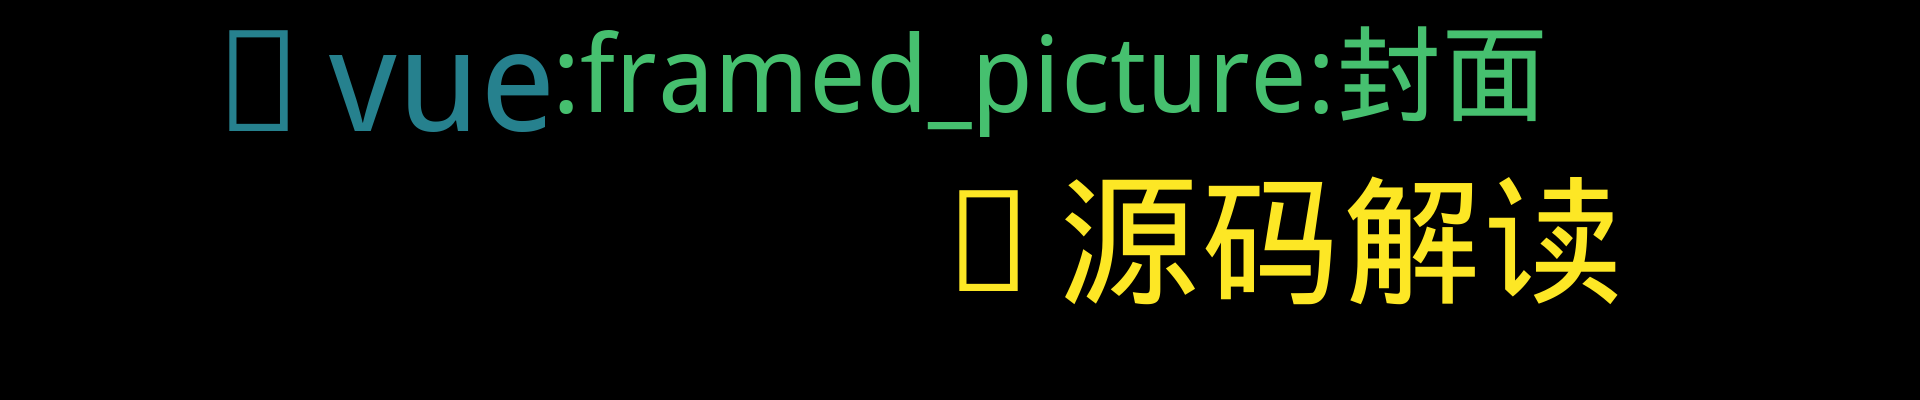
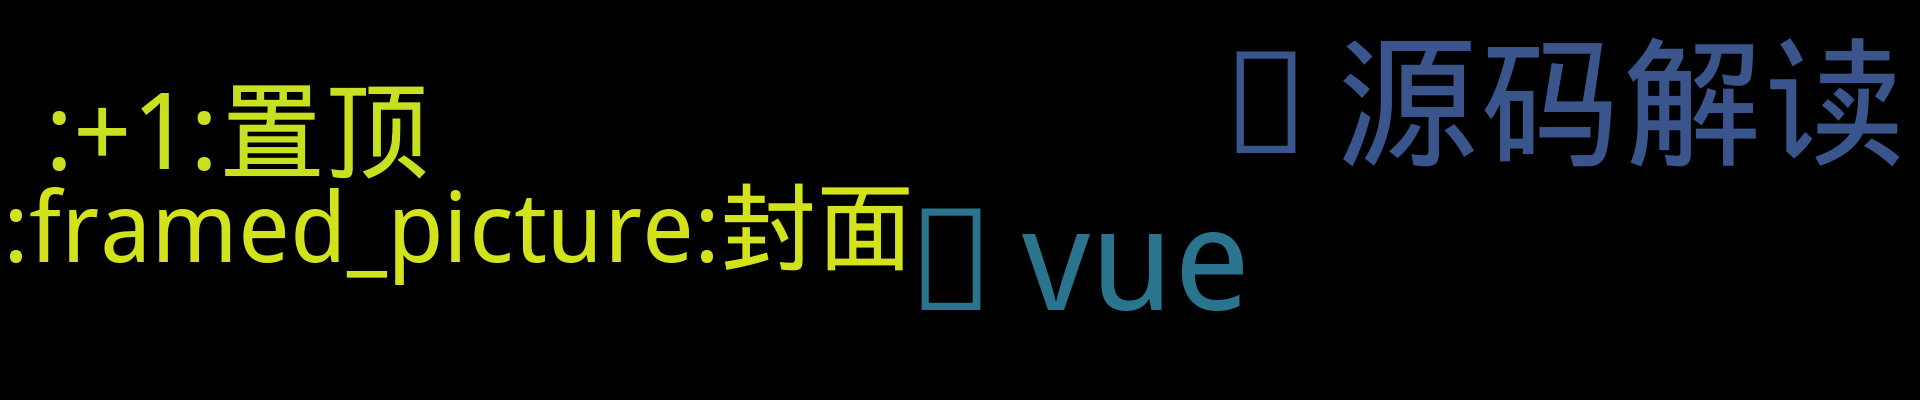
Update from Github Action

diff --git a/README.md b/README.md
@@ -3,7 +3,7 @@
 <p align='center'>
     <img src="https://badgen.net/badge/labels/4"/>
     <img src="https://badgen.net/github/issues/7kyun/ghiblog"/>
-    <img src="https://badgen.net/badge/last-commit/2022-05-10 02:33:32"/>
+    <img src="https://badgen.net/badge/last-commit/2022-05-10 02:35:55"/>
     <img src="https://badgen.net/github/forks/7kyun/ghiblog"/>
     <img src="https://badgen.net/github/stars/7kyun/ghiblog"/>
     <img src="https://badgen.net/github/watchers/7kyun/ghiblog"/>
@@ -31,6 +31,7 @@
 
     
 ## 置顶 :thumbsup: 
+- [Vue 数据绑定原理（一）](https://github.com/7kyun/ghiblog/issues/3)  <sup>0 :speech_balloon:</sup>  	 
 ## 最新 :new: 
 
 #### [Vue 数据绑定原理（二）](https://github.com/7kyun/ghiblog/issues/4) <sup>0 :speech_balloon:</sup> 	 2022-05-09 09:29:27
@@ -49,7 +50,7 @@
 
 #### [Vue 数据绑定原理（一）](https://github.com/7kyun/ghiblog/issues/3) <sup>0 :speech_balloon:</sup> 	 2022-05-09 08:10:59
 
-:label: : [𝐕vue](https://github.com/7kyun/ghiblog/labels/%F0%9D%90%95vue), [➡源码解读](https://github.com/7kyun/ghiblog/labels/%E2%9E%A1%EF%B8%8F%E6%BA%90%E7%A0%81%E8%A7%A3%E8%AF%BB)
+:label: : [:+1:置顶](https://github.com/7kyun/ghiblog/labels/%3A%2B1%3A%E7%BD%AE%E9%A1%B6), [𝐕vue](https://github.com/7kyun/ghiblog/labels/%F0%9D%90%95vue), [➡源码解读](https://github.com/7kyun/ghiblog/labels/%E2%9E%A1%EF%B8%8F%E6%BA%90%E7%A0%81%E8%A7%A3%E8%AF%BB)
 
 ### initData
 这段代码主要是初始化data中的数据，将数据进行Observer，监听数据的变化，其他的监视原理一致，这里以data为例。[源码](https://github.com/vuejs/vue/blob/2.6/src/core/instance/state.js#L112)
@@ -81,8 +82,9 @@
 
 
 <details>
-<summary>:+1:置顶	<sup>0:newspaper:</sup></summary>
+<summary>:+1:置顶	<sup>1:newspaper:</sup></summary>
 
+- [Vue 数据绑定原理（一）](https://github.com/7kyun/ghiblog/issues/3)  <sup>0 :speech_balloon:</sup>  	 
 
 
 </details>
